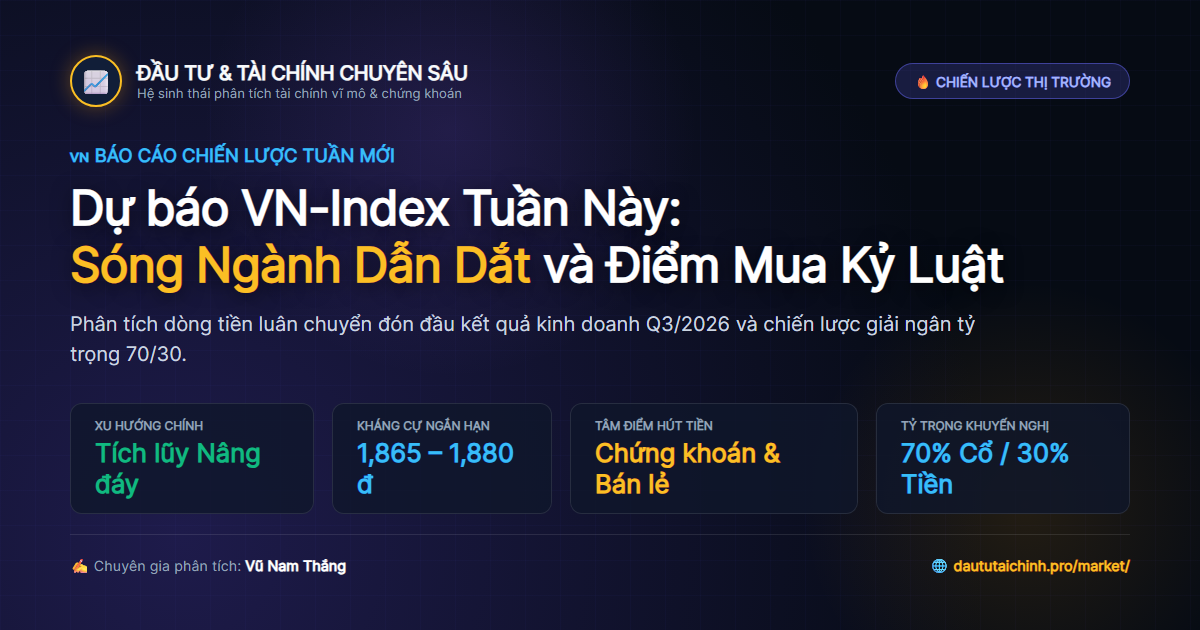
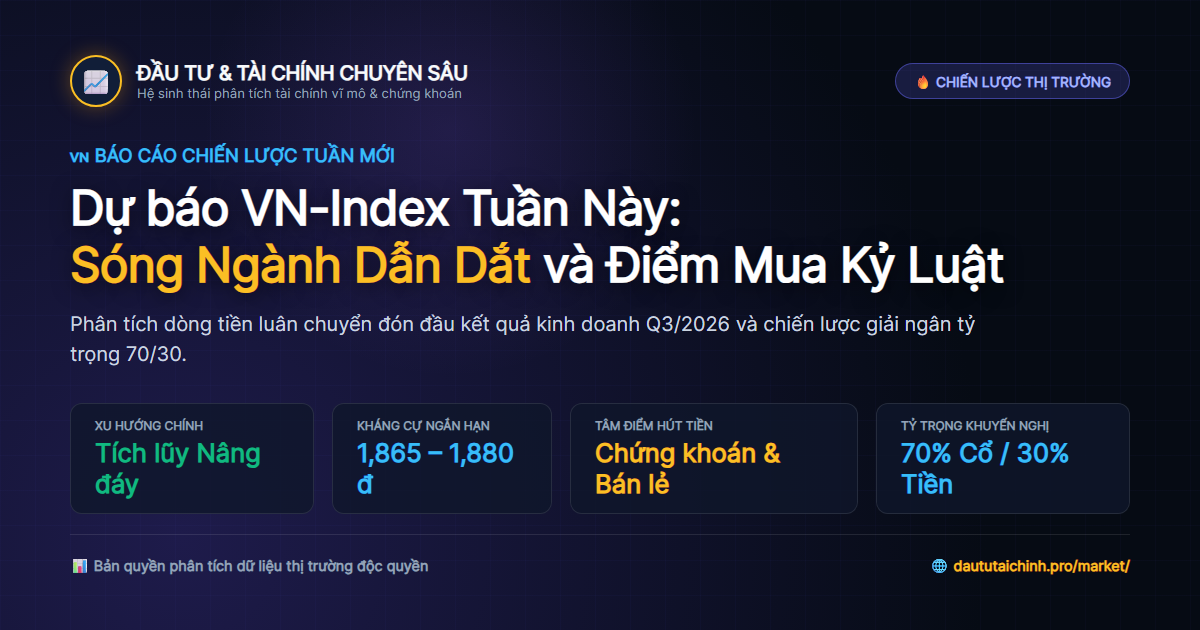
refactor(ux): clean up TOC (remove duplicate takeaways & sub-items), remove personal author name from covers and articles

Changed region(s): [[0.0617, 0.8746, 0.37, 0.9349], [0.8017, 0.8143, 0.8942, 0.8746]]

diff --git a/market/du-bao-vn-index-tuan-nay-song-nganh-diem-mua.html b/market/du-bao-vn-index-tuan-nay-song-nganh-diem-mua.html
@@ -209,14 +209,10 @@
           <button class="toc-toggle" onclick="this.parentElement.parentElement.classList.toggle('collapsed')"><i class="fa-solid fa-chevron-up"></i></button>
         </div>
         <ul class="toc-list">
-        <li class="toc-h3"><a href="#heading-0">Tóm tắt Chiến lược (Key Takeaways)</a></li>
-        <li class="toc-h2"><a href="#heading-0">1. Tổng quan thị trường và bối cảnh giao dịch hiện tại</a></li>
-        <li class="toc-h3"><a href="#heading-1">1.1 Động thái luân chuyển của dòng vốn</a></li>
-        <li class="toc-h2"><a href="#heading-2">2. Dự báo xu hướng VN-Index và các kịch bản tuần này</a></li>
-        <li class="toc-h2"><a href="#heading-3">3. Sóng ngành dẫn dắt tâm điểm tuần này</a></li>
-        <li class="toc-h3"><a href="#heading-4">3.1 Nhóm Chứng khoán và Dịch vụ tài chính</a></li>
-        <li class="toc-h3"><a href="#heading-5">3.2 Nhóm Ngân hàng và Bán lẻ</a></li>
-        <li class="toc-h2"><a href="#heading-6">4. Chiến lược giải ngân và điểm mua cổ phiếu tiềm năng</a></li>
+          <li class="toc-h2"><a href="#sec-1">1. Tổng quan thị trường và bối cảnh giao dịch hiện tại</a></li>
+          <li class="toc-h2"><a href="#sec-2">2. Dự báo xu hướng VN-Index và các kịch bản tuần này</a></li>
+          <li class="toc-h2"><a href="#sec-3">3. Sóng ngành dẫn dắt tâm điểm tuần này</a></li>
+          <li class="toc-h2"><a href="#sec-4">4. Chiến lược giải ngân và điểm mua cổ phiếu tiềm năng</a></li>
         </ul>
       </div>
       <!-- Executive Summary / Key Takeaways -->
@@ -231,7 +227,7 @@
       </div>
 
       
-      <p><strong>Dự báo VN-Index</strong> tuần từ ngày 27/10/2026 đang trở thành tâm điểm chú ý của giới đầu tư khi mùa công bố kết quả kinh doanh quý 3/2026 bước vào giai đoạn tăng tốc. Thị trường chứng khoán tiếp tục ghi nhận sự phân hóa sâu sắc cùng nhịp vận động tích cực từ thanh khoản dòng tiền nội, mở ra nhiều cơ hội tìm kiếm lợi nhuận cho các vị thế ngắn lẫn trung hạn.</p><h2 id="heading-0">1. Tổng quan thị trường và bối cảnh giao dịch hiện tại</h2><p>Bước vào phiên giao dịch cuối tháng 10/2026, chỉ số chung tiếp tục củng cố nền giá quanh vùng tích lũy chủ đạo với thanh khoản duy trì ổn định. Dữ liệu giao dịch từ <a href='https://www.hsx.vn' target='_blank' rel='noopener'>Sở Giao dịch Chứng khoán TP.HCM (HOSE)</a> cho thấy độ rộng thị trường giữ trạng thái cân bằng, trong đó áp lực chốt lời ngắn hạn nhanh chóng được hấp thụ bởi dòng tiền đón đầu báo cáo tài chính.</p><h3 id="heading-1">1.1 Động thái luân chuyển của dòng vốn</h3><p>Dòng tiền thông minh không rút khỏi thị trường mà xoay vòng nhịp nhàng giữa các nhóm ngành trọng điểm. Khi các mã vốn hóa lớn chững lại để tái tích lũy, các nhóm cổ phiếu vừa và nhỏ có kết quả kinh doanh đột biến lập tức bứt phá.</p><blockquote>Dòng tiền trong giai đoạn hiện tại có tính chọn lọc rất cao. Xu hướng nâng đáy của chỉ số là nền tảng vững chắc để nhà đầu tư kiên nhẫn tích lũy những doanh nghiệp có tăng trưởng cốt lõi vượt trội.</blockquote><h2 id="heading-2">2. Dự báo xu hướng VN-Index và các kịch bản tuần này</h2><p>Dựa trên các chỉ báo kỹ thuật RSI, MACD và khối lượng tích lũy trên đồ thị ngày, thị trường đang phát đi tín hiệu tạo lập mặt bằng giá mới.</p><ul><li><strong>Kịch bản tích cực (60%):</strong> VN-Index kiểm định thành công ngưỡng hỗ trợ gần, vượt dứt khoát mốc kháng cự ngắn hạn với thanh khoản bùng nổ, mở rộng nhịp tăng hướng lên các vùng mục tiêu cao hơn.</li><li><strong>Kịch bản giằng co (40%):</strong> Chỉ số dao động biên độ hẹp trong vùng tích lũy nhằm hấp thụ lượng hàng chốt lời quý 3 trước khi xác nhận xu thế mới.</li></ul><p>Nhà đầu tư có thể tham khảo thêm các bài phân tích sâu tại chuyên mục <a href='/market/'>nhận định thị trường chứng khoán</a> để chủ động xây dựng kịch bản quản trị rủi ro phù hợp.</p><h2 id="heading-3">3. Sóng ngành dẫn dắt tâm điểm tuần này</h2><h3 id="heading-4">3.1 Nhóm Chứng khoán và Dịch vụ tài chính</h3><p>Hưởng lợi trực tiếp từ thanh khoản dồi dào và tiến trình vận hành hệ thống giao dịch hiện đại, nhóm công ty chứng khoán tiếp tục duy trì đà tăng trưởng doanh thu môi giới và tự doanh. Điển hình như <a href='/market/co-phieu-ssi-kich-ban-q1-2026-va-nang-hang-thi-truong.html'>cổ phiếu SSI</a> cùng các đại diện đầu ngành đang hình thành mẫu hình tích lũy vượt đỉnh tin cậy.</p><h3 id="heading-5">3.2 Nhóm Ngân hàng và Bán lẻ</h3><p>Tăng trưởng tín dụng khả quan kết hợp cùng biên lãi thuần (NIM) duy trì ổn định giúp nhóm ngân hàng tư nhân giữ vững vai trò mỏ neo tâm lý. Song song đó, nhóm bán lẻ và tiêu dùng ghi nhận lực cầu gia tăng khi sức mua nội địa tăng tốc mạnh mẽ vào giai đoạn cao điểm cuối năm.</p><h2 id="heading-6">4. Chiến lược giải ngân và điểm mua cổ phiếu tiềm năng</h2><p>Để tối ưu hóa hiệu suất danh mục trong giai đoạn hiện tại, chiến lược quản trị vốn cần tuân thủ nguyên tắc kỷ luật:</p><ul><li>Ưu tiên gom mua cổ phiếu tại các nhịp rung lắc kỹ thuật về hỗ trợ mạnh thay vì mua đuổi ở các phiên tăng trần.</li><li>Duy trì tỷ trọng cổ phiếu/tiền mặt ở mức 70/30 để giữ thế chủ động trước các biến số bất ngờ từ thị trường tài chính quốc tế.</li><li>Thiết lập mức chặn lỗ (Stop-loss) nghiêm ngặt ở ngưỡng 5-7% từ điểm vào lệnh nhằm bảo toàn thành quả đầu tư.</li></ul>
+      <p><strong>Dự báo VN-Index</strong> tuần từ ngày 27/10/2026 đang trở thành tâm điểm chú ý của giới đầu tư khi mùa công bố kết quả kinh doanh quý 3/2026 bước vào giai đoạn tăng tốc. Thị trường chứng khoán tiếp tục ghi nhận sự phân hóa sâu sắc cùng nhịp vận động tích cực từ thanh khoản dòng tiền nội, mở ra nhiều cơ hội tìm kiếm lợi nhuận cho các vị thế ngắn lẫn trung hạn.</p><h2 id="sec-1">1. Tổng quan thị trường và bối cảnh giao dịch hiện tại</h2><p>Bước vào phiên giao dịch cuối tháng 10/2026, chỉ số chung tiếp tục củng cố nền giá quanh vùng tích lũy chủ đạo với thanh khoản duy trì ổn định. Dữ liệu giao dịch từ <a href='https://www.hsx.vn' target='_blank' rel='noopener'>Sở Giao dịch Chứng khoán TP.HCM (HOSE)</a> cho thấy độ rộng thị trường giữ trạng thái cân bằng, trong đó áp lực chốt lời ngắn hạn nhanh chóng được hấp thụ bởi dòng tiền đón đầu báo cáo tài chính.</p><h3 id="heading-1">1.1 Động thái luân chuyển của dòng vốn</h3><p>Dòng tiền thông minh không rút khỏi thị trường mà xoay vòng nhịp nhàng giữa các nhóm ngành trọng điểm. Khi các mã vốn hóa lớn chững lại để tái tích lũy, các nhóm cổ phiếu vừa và nhỏ có kết quả kinh doanh đột biến lập tức bứt phá.</p><blockquote>Dòng tiền trong giai đoạn hiện tại có tính chọn lọc rất cao. Xu hướng nâng đáy của chỉ số là nền tảng vững chắc để nhà đầu tư kiên nhẫn tích lũy những doanh nghiệp có tăng trưởng cốt lõi vượt trội.</blockquote><h2 id="sec-2">2. Dự báo xu hướng VN-Index và các kịch bản tuần này</h2><p>Dựa trên các chỉ báo kỹ thuật RSI, MACD và khối lượng tích lũy trên đồ thị ngày, thị trường đang phát đi tín hiệu tạo lập mặt bằng giá mới.</p><ul><li><strong>Kịch bản tích cực (60%):</strong> VN-Index kiểm định thành công ngưỡng hỗ trợ gần, vượt dứt khoát mốc kháng cự ngắn hạn với thanh khoản bùng nổ, mở rộng nhịp tăng hướng lên các vùng mục tiêu cao hơn.</li><li><strong>Kịch bản giằng co (40%):</strong> Chỉ số dao động biên độ hẹp trong vùng tích lũy nhằm hấp thụ lượng hàng chốt lời quý 3 trước khi xác nhận xu thế mới.</li></ul><p>Nhà đầu tư có thể tham khảo thêm các bài phân tích sâu tại chuyên mục <a href='/market/'>nhận định thị trường chứng khoán</a> để chủ động xây dựng kịch bản quản trị rủi ro phù hợp.</p><h2 id="sec-3">3. Sóng ngành dẫn dắt tâm điểm tuần này</h2><h3 id="heading-4">3.1 Nhóm Chứng khoán và Dịch vụ tài chính</h3><p>Hưởng lợi trực tiếp từ thanh khoản dồi dào và tiến trình vận hành hệ thống giao dịch hiện đại, nhóm công ty chứng khoán tiếp tục duy trì đà tăng trưởng doanh thu môi giới và tự doanh. Điển hình như <a href='/market/co-phieu-ssi-kich-ban-q1-2026-va-nang-hang-thi-truong.html'>cổ phiếu SSI</a> cùng các đại diện đầu ngành đang hình thành mẫu hình tích lũy vượt đỉnh tin cậy.</p><h3 id="heading-5">3.2 Nhóm Ngân hàng và Bán lẻ</h3><p>Tăng trưởng tín dụng khả quan kết hợp cùng biên lãi thuần (NIM) duy trì ổn định giúp nhóm ngân hàng tư nhân giữ vững vai trò mỏ neo tâm lý. Song song đó, nhóm bán lẻ và tiêu dùng ghi nhận lực cầu gia tăng khi sức mua nội địa tăng tốc mạnh mẽ vào giai đoạn cao điểm cuối năm.</p><h2 id="sec-4">4. Chiến lược giải ngân và điểm mua cổ phiếu tiềm năng</h2><p>Để tối ưu hóa hiệu suất danh mục trong giai đoạn hiện tại, chiến lược quản trị vốn cần tuân thủ nguyên tắc kỷ luật:</p><ul><li>Ưu tiên gom mua cổ phiếu tại các nhịp rung lắc kỹ thuật về hỗ trợ mạnh thay vì mua đuổi ở các phiên tăng trần.</li><li>Duy trì tỷ trọng cổ phiếu/tiền mặt ở mức 70/30 để giữ thế chủ động trước các biến số bất ngờ từ thị trường tài chính quốc tế.</li><li>Thiết lập mức chặn lỗ (Stop-loss) nghiêm ngặt ở ngưỡng 5-7% từ điểm vào lệnh nhằm bảo toàn thành quả đầu tư.</li></ul>
 
       <div style="margin-top: 30px; padding-top: 15px; border-top: 1px solid rgba(255,255,255,0.1);">
           <div style="margin-bottom: 10px;"><strong>Tags: </strong> <span style="display:inline-block; padding:4px 12px; background:rgba(99,102,241,0.2); color:#a5b4fc; border-radius:15px; font-size:12px; margin-right:5px;">Dự báo VN-Index</span><span style="display:inline-block; padding:4px 12px; background:rgba(99,102,241,0.2); color:#a5b4fc; border-radius:15px; font-size:12px; margin-right:5px;">Chứng khoán</span><span style="display:inline-block; padding:4px 12px; background:rgba(99,102,241,0.2); color:#a5b4fc; border-radius:15px; font-size:12px; margin-right:5px;">Cổ phiếu</span><span style="display:inline-block; padding:4px 12px; background:rgba(99,102,241,0.2); color:#a5b4fc; border-radius:15px; font-size:12px; margin-right:5px;">Thị trường chứng khoán</span></div>

diff --git a/AI-Dashboard.html b/AI-Dashboard.html
@@ -4244,7 +4244,7 @@ KHÔNG viết thêm bất kỳ câu giải thích nào bên ngoài JSON.`;
             }
 
             // 3. Trích xuất H2, H3 để gắn ID và tạo Mục lục (Table of Contents - TOC)
-            const headingRegex = /<(h[23])([^>]*)>(.*?)<\/\1>/gi;
+            const headingRegex = /<(h2)([^>]*)>(.*?)<\/h2>/gi; // Chỉ đưa các đề mục chính H2 vào Mục lục để tinh gọn
             let headingsList = [];
             let headingIdx = 0;
 
@@ -4379,10 +4379,9 @@ gtag('config', 'G-RJZJX69KDM');
   "datePublished": "${new Date().toISOString()}",
   "mainEntityOfPage": "${canonicalUrl}",
   "author": {
-    "@type": "Person",
-    "name": "Vũ Nam Thắng",
-    "jobTitle": "Chuyên gia Phân tích Tài chính Vĩ mô & Chứng khoán",
-    "url": "https://daututaichinh.pro/#founder"
+    "@type": "Organization",
+    "name": "Đầu tư & Tài chính chuyên sâu",
+    "url": "https://daututaichinh.pro/"
   },
   "publisher": {
     "@type": "Organization",
@@ -4527,7 +4526,7 @@ td { padding: 14px 18px !important; border-bottom: 1px solid rgba(255,255,255,0.
 <div class="article-meta">
 <span class="meta-item">📅 Đăng ngày: ${formattedDate}</span>
 <span class="meta-item">📁 Chuyên mục: <a href="/${category}/">${categoryName}</a></span>
-<span class="meta-item">✍ Tác giả: Vũ Nam Thắng</span>
+
 </div>
 
 <figure class="article-cover-figure">

diff --git a/market/dinh-gia-co-phieu-fpt-2026-vung-mua-an-toan.html b/market/dinh-gia-co-phieu-fpt-2026-vung-mua-an-toan.html
@@ -54,10 +54,9 @@ gtag('config', 'G-RJZJX69KDM');
   "dateModified": "2026-10-31T08:00:00+07:00",
   "mainEntityOfPage": "https://daututaichinh.pro/market/dinh-gia-co-phieu-fpt-2026-vung-mua-an-toan.html",
   "author": {
-    "@type": "Person",
-    "name": "Vũ Nam Thắng",
-    "jobTitle": "Chuyên gia Phân tích Tài chính Vĩ mô & Chứng khoán",
-    "url": "https://daututaichinh.pro/#founder"
+    "@type": "Organization",
+    "name": "Đầu tư & Tài chính chuyên sâu",
+    "url": "https://daututaichinh.pro/"
   },
   "publisher": {
     "@type": "Organization",
@@ -264,7 +263,7 @@ tr:hover td { background: rgba(245, 158, 11, 0.05); }
       <span class="badge-cat"><i class="fa-solid fa-calculator"></i> Định giá Chuyên sâu</span>
       <span><i class="fa-regular fa-calendar"></i> 31/10/2026</span>
       <span><i class="fa-regular fa-clock"></i> 6 phút đọc</span>
-      <span><i class="fa-solid fa-user-tie"></i> Vũ Nam Thắng</span>
+      
     </div>
 
     <h1 style="color:#f8fafc; font-size: 2.1rem; line-height: 1.35; margin-bottom: 20px; font-weight: 800;">
